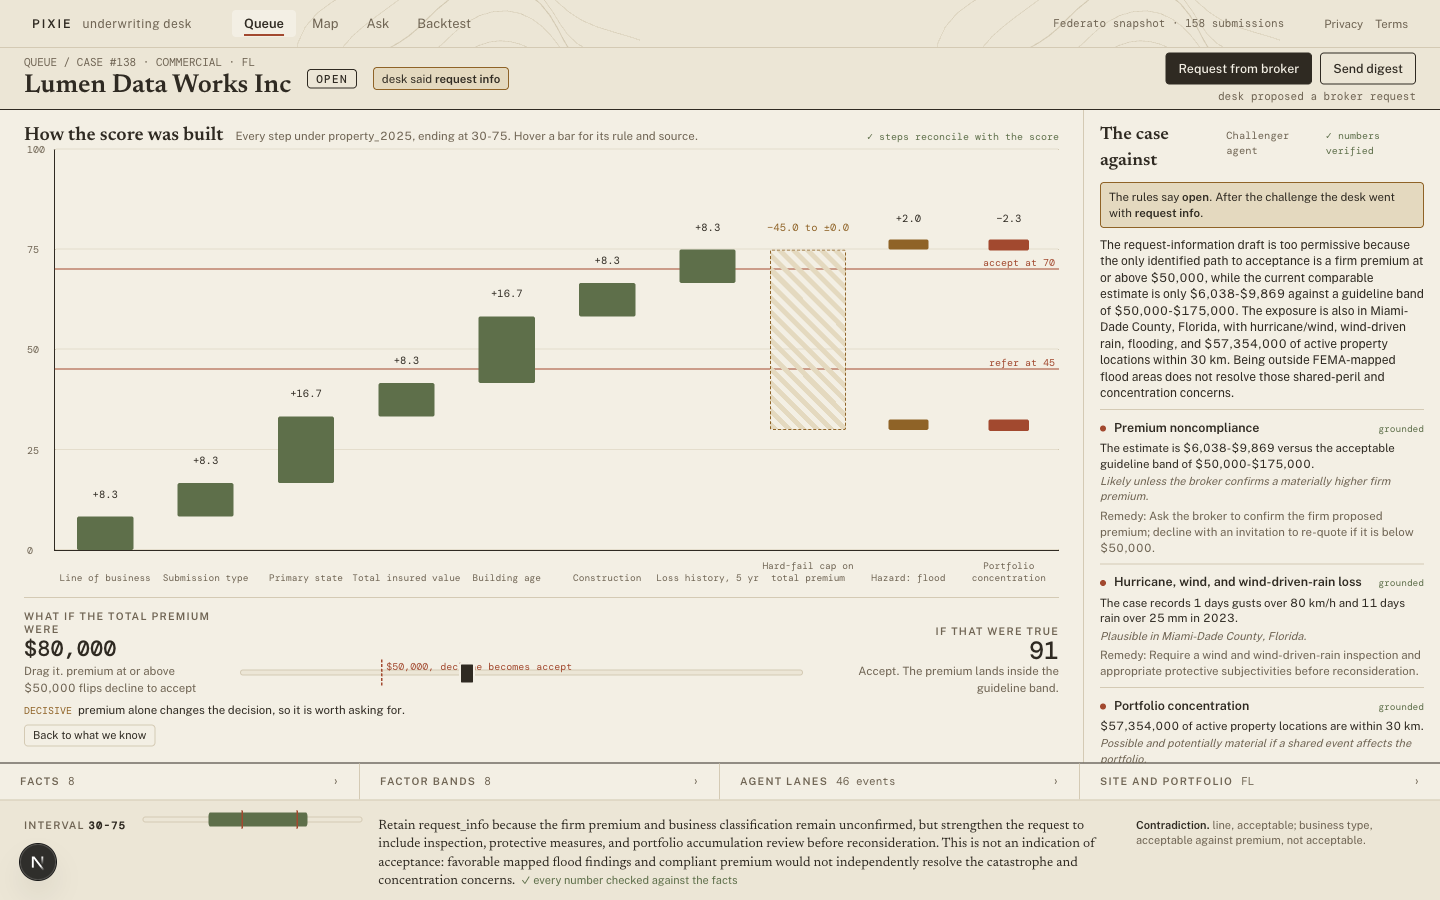
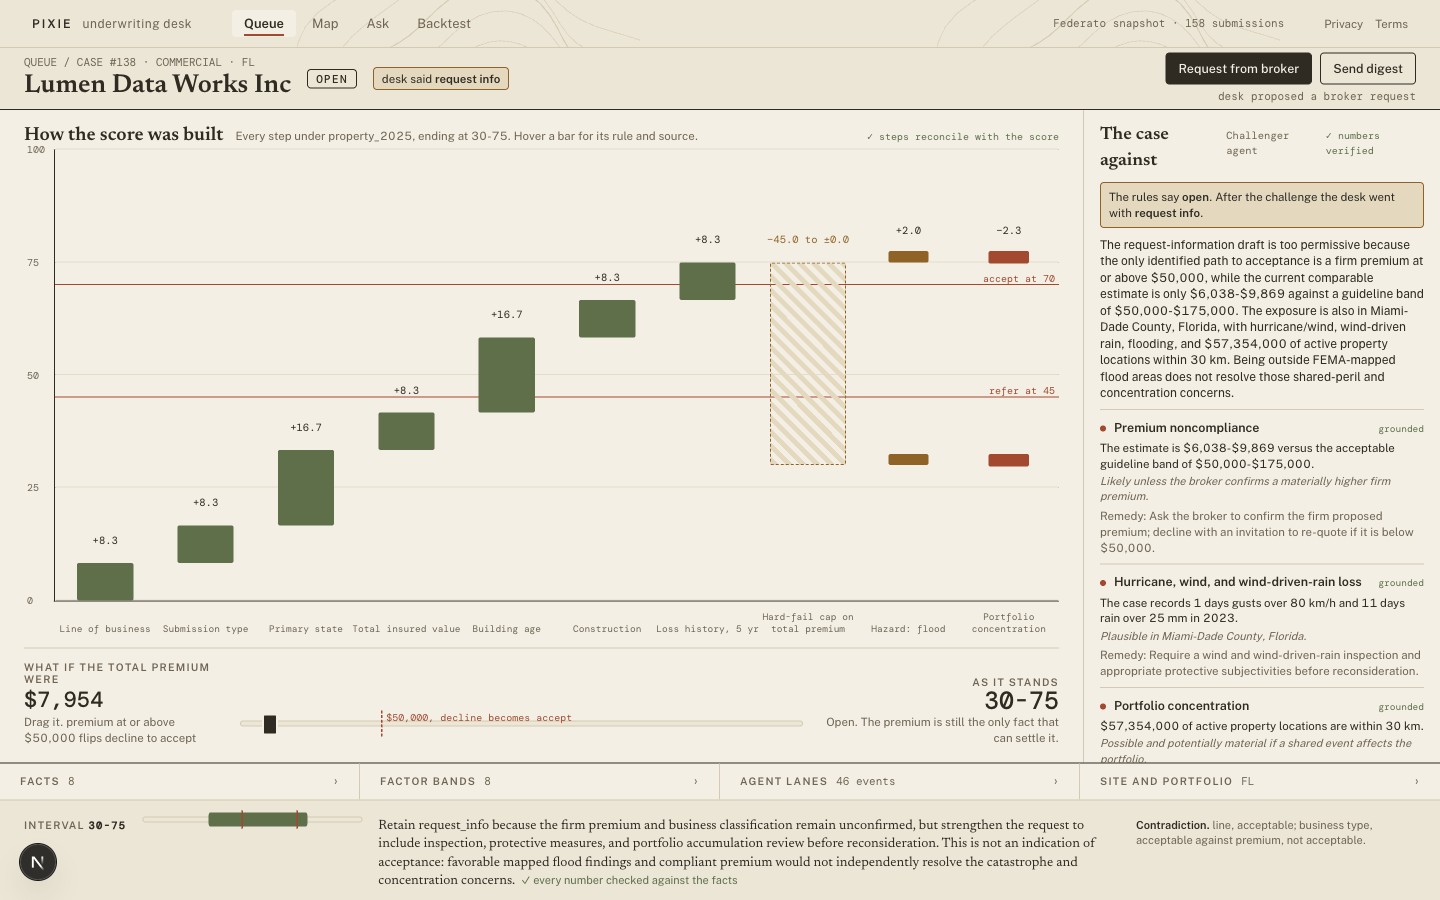
Refresh step 4: the queue and the map inherit the decluttered styling
The queue drops to four sortable columns plus a decision and a why: seven
columns of numbers became one line of reasons, each row naming what it is
waiting on or what failed, how many risks the Challenger raised, and where the
desk overruled the rules ('decline, desk: refer with subjectivity'). Consumer
referrals sit under their own heading rather than mixed in, unscored rows read
'not scored', and the desk verdict is hidden when it says the same thing as
the rules. The map keeps one card, one legend and a site list that reads like
the live rail.

diff --git a/web/src/components/QueueTable.tsx b/web/src/components/QueueTable.tsx
@@ -1,27 +1,28 @@
 "use client";
 import Link from "next/link";
 import { useMemo, useState } from "react";
-import type { QueueRow } from "@/contract";
 import { DecisionChip, IntervalBar, IssueTag, money } from "./bits";
+import type { Row } from "@/lib/live";
 
-type Key = "rank" | "insured" | "line" | "state" | "score" | "delta" | "value";
+type Key = "rank" | "insured" | "score" | "value";
 const GROUP: Record<string, number> = { open: 0, refer: 1, accept: 1, approve: 1, decline: 2, routed: 3 };
-const group = (r: QueueRow) => GROUP[r.decision.kind] ?? 3;
-const scored = (r: QueueRow) => !!r.score && r.decision.kind !== "routed" && (r.score.lo !== 0 || r.score.hi !== 0);
-const mid = (r: QueueRow) => (scored(r) ? (r.score!.lo + r.score!.hi) / 2 : -1);
+const group = (r: Row) => GROUP[r.decision.kind] ?? 3;
+const scored = (r: Row) => !!r.score && r.decision.kind !== "routed" && (r.score.lo !== 0 || r.score.hi !== 0);
+const mid = (r: Row) => (scored(r) ? (r.score!.lo + r.score!.hi) / 2 : -1);
 
-const COLS: { key: Key; label: string; align?: "right" }[] = [
-  { key: "rank", label: "#" },
+type Extras = { deskVerdict?: string; challengeRisks?: number };
+type Ranked = Row & Extras & { rank: number };
+
+const COLS: { key: Key; label: string; align?: "right"; w?: string }[] = [
+  { key: "rank", label: "#", w: "w-[38px]" },
   { key: "insured", label: "Insured" },
-  { key: "line", label: "Line" },
-  { key: "state", label: "State" },
-  { key: "score", label: "Score interval" },
-  { key: "delta", label: "Enrich Δ", align: "right" },
-  { key: "value", label: "At stake", align: "right" },
+  { key: "score", label: "Score interval", w: "w-[250px]" },
+  { key: "value", label: "At stake", align: "right", w: "w-[92px]" },
 ];
 
-export function QueueTable({ rows }: { rows: QueueRow[] }) {
-  const ranked = useMemo(
+/** One row per submission: who, where it landed, and why. Everything else lives on the case page. */
+export function QueueTable({ rows }: { rows: (Row & Extras)[] }) {
+  const ranked = useMemo<Ranked[]>(
     () =>
       [...rows]
         .sort((a, b) => group(a) - group(b) || mid(b) - mid(a) || b.valueAtStake - a.valueAtStake)
@@ -30,25 +31,24 @@ export function QueueTable({ rows }: { rows: QueueRow[] }) {
   );
   const [sort, setSort] = useState<{ key: Key; dir: 1 | -1 }>({ key: "rank", dir: 1 });
   const sorted = useMemo(() => {
-    const val = (r: (typeof ranked)[number]): string | number =>
-      ({ rank: r.rank, insured: r.insured, line: r.line, state: r.state, score: mid(r), delta: r.enrichmentDelta ?? 0, value: r.valueAtStake })[
-        sort.key
-      ];
+    const val = (r: Ranked): string | number => ({ rank: r.rank, insured: r.insured, score: mid(r), value: r.valueAtStake })[sort.key];
     return [...ranked].sort((a, b) => {
-      const x = val(a), y = val(b);
+      const x = val(a),
+        y = val(b);
       return (typeof x === "string" ? x.localeCompare(y as string) : x - (y as number)) * sort.dir;
     });
   }, [ranked, sort]);
 
-  const toggle = (key: Key) =>
-    setSort((s) => ({ key, dir: s.key === key ? (s.dir === 1 ? -1 : 1) : key === "rank" || key === "insured" || key === "line" || key === "state" ? 1 : -1 }));
+  const toggle = (key: Key) => setSort((s) => ({ key, dir: s.key === key ? (s.dir === 1 ? -1 : 1) : key === "rank" || key === "insured" ? 1 : -1 }));
 
-  if (!rows.length)
-    return <p className="mt-10 text-dim">No submissions match. Switch to All to see decided and bound cases.</p>;
+  if (!rows.length) return <p className="mt-10 text-dim">No submissions match. Switch to All to see decided and bound cases.</p>;
+
+  const desk = sorted.filter((r) => r.region !== "toronto");
+  const consumer = sorted.filter((r) => r.region === "toronto");
 
   return (
-    <table className="mt-6 w-full border-collapse text-[12.5px]">
-      <caption className="sr-only">Submission queue. Column headers are buttons that sort the table.</caption>
+    <table className="mt-5 w-full border-collapse text-[12.5px]">
+      <caption className="sr-only">Submission queue, ranked by score interval. Column headers sort the table.</caption>
       <thead>
         <tr className="border-b border-ink">
           {COLS.map((c) => (
@@ -56,7 +56,7 @@ export function QueueTable({ rows }: { rows: QueueRow[] }) {
               key={c.key}
               scope="col"
               aria-sort={sort.key === c.key ? (sort.dir === 1 ? "ascending" : "descending") : "none"}
-              className={`py-1.5 pr-4 font-normal ${c.align === "right" ? "text-right" : "text-left"} ${c.key === "score" ? "w-[260px]" : ""}`}
+              className={`py-1.5 pr-4 font-normal ${c.align === "right" ? "text-right" : "text-left"} ${c.w ?? ""}`}
             >
               <button onClick={() => toggle(c.key)} className="kicker rounded-sm hover:text-ink">
                 {c.label}
@@ -66,73 +66,101 @@ export function QueueTable({ rows }: { rows: QueueRow[] }) {
               </button>
             </th>
           ))}
-          <th scope="col" className="kicker py-1.5 pr-4 text-left font-normal">Decision</th>
-          <th scope="col" className="kicker py-1.5 text-left font-normal">Issues</th>
+          <th scope="col" className="kicker py-1.5 pr-4 text-left font-normal">
+            Decision
+          </th>
+          <th scope="col" className="kicker py-1.5 text-left font-normal">
+            Why
+          </th>
         </tr>
       </thead>
       <tbody>
-        {sorted.map((r) => (
-          <tr key={r.caseId} className="group border-b border-rule transition-colors duration-150 hover:bg-land">
-            <td className="num py-2 pr-4 text-dim">{String(r.rank).padStart(2, "0")}</td>
-            <td className="py-2 pr-4">
-              <Link href={`/cases/${r.caseId}`} className="font-medium underline-offset-2 hover:underline">
-                {r.insured}
-              </Link>
-              <span className="num ml-2 text-[11px] text-dim">#{r.caseId}</span>
-              {r.deepDived && (
-                <span title="The desk ran a deep dive on this case" className="ml-2 font-mono text-[10px] text-ochre">
-                  deep dive
-                </span>
-              )}
-            </td>
-            <td className="py-2 pr-4">{r.line.length <= 3 ? r.line.toUpperCase() : r.line[0].toUpperCase() + r.line.slice(1)}</td>
-            <td className="num py-2 pr-4">{r.state}</td>
-            <td className="py-2 pr-4">
-              {!scored(r) ? (
-                <span className="text-[11.5px] text-dim" title={r.decision.kind === "routed" ? r.decision.because : undefined}>
-                  <span aria-hidden className="num mr-2">—</span>
-                  {r.decision.kind === "routed" ? `routed to ${r.decision.to}` : "not scored"}
-                </span>
-              ) : (
-                <div className="flex items-center gap-3">
-                  <div className="flex-1"><IntervalBar score={r.score} compact /></div>
-                  <span className="num w-[42px] text-[11.5px]">{r.score!.lo}–{r.score!.hi}</span>
-                </div>
-              )}
-            </td>
-            <td className={`num py-2 pr-4 text-right ${r.enrichmentDelta ? "" : "text-dim"}`}>
-              {r.enrichmentDelta == null ? "—" : `${r.enrichmentDelta > 0 ? "+" : r.enrichmentDelta < 0 ? "−" : "±"}${Math.abs(r.enrichmentDelta)}`}
-            </td>
-            <td className="num py-2 pr-4 text-right">{money(r.valueAtStake)}</td>
-            <td className="py-2 pr-4">
-              <DecisionChip decision={r.decision} />
-              {r.decision.kind === "open" &&
-                r.decision.flippers.map((f) => (
-                  <span
-                    key={f.fact}
-                    title={`${f.fact} could flip the decision; ask the ${f.resolver}`}
-                    className="ml-1.5 font-mono text-[10.5px]"
-                  >
-                    <span aria-hidden>⇅</span> {f.fact} <span className="text-dim">← {f.resolver}</span>
-                  </span>
-                ))}
-            </td>
-            <td className="py-2">
-              <span className="flex flex-wrap gap-1">
-                {/* The engine can report the same issue once per building; show it once with a count. */}
-                {Object.values(
-                  r.issues.reduce<Record<string, { kind: string; severity: string; n: number }>>((m, i) => {
-                    m[i.kind] = { ...i, n: (m[i.kind]?.n ?? 0) + 1 };
-                    return m;
-                  }, {}),
-                ).map((i) => (
-                  <IssueTag key={i.kind} kind={i.kind} severity={i.severity} count={i.n} />
-                ))}
-              </span>
+        {desk.map((r) => (
+          <QueueRowView key={r.caseId} r={r} />
+        ))}
+        {consumer.length > 0 && (
+          <tr>
+            <td colSpan={6} className="pb-1 pt-5">
+              <span className="kicker">Consumer referrals</span>
+              <span className="ml-2 text-[11.5px] text-dim">Toronto renters the same engine priced and sent here.</span>
             </td>
           </tr>
+        )}
+        {consumer.map((r) => (
+          <QueueRowView key={r.caseId} r={r} />
         ))}
       </tbody>
     </table>
+  );
+}
+
+function QueueRowView({ r }: { r: Ranked }) {
+  const has = scored(r);
+  // "route" and "routed" are the same call; only show the desk's verdict when it really differs.
+  const same = (a: string, b: string) => a.replace(/d$/, "") === b.replace(/d$/, "");
+  const moved = !!r.deskVerdict && !same(r.deskVerdict, r.decision.kind);
+  const reasons = "because" in r.decision ? (Array.isArray(r.decision.because) ? r.decision.because : [r.decision.because]) : [];
+  const why = reasons.length
+    ? reasons.slice(0, 2).map((b) => b.replace(/:/g, " ").replaceAll("_", " ")).join("; ")
+    : r.decision.kind === "open"
+      ? `waiting on ${r.decision.flippers.map((f) => f.fact).join(", ") || "the broker"}`
+      : "";
+
+  return (
+    <tr className="group border-b border-rule transition-colors duration-150 hover:bg-land">
+      <td className="num py-2 pr-4 text-dim">{String(r.rank).padStart(2, "0")}</td>
+      <td className="py-2 pr-4">
+        <Link href={`/cases/${r.caseId}`} className="font-medium underline-offset-2 hover:underline">
+          {r.insured}
+        </Link>
+        <span className="num ml-2 whitespace-nowrap text-[11px] text-dim">
+          #{r.caseId} · {r.line} · {r.state}
+        </span>
+        {r.deepDived && (
+          <span title="The desk ran a deep dive on this case" className="ml-2 font-mono text-[10px] text-ochre">
+            deep dive
+          </span>
+        )}
+      </td>
+      <td className="py-2 pr-4">
+        {has ? (
+          <div className="flex items-center gap-3">
+            <div className="flex-1">
+              <IntervalBar score={r.score} compact />
+            </div>
+            <span className="num w-[42px] text-[11.5px]">
+              {r.score!.lo}-{r.score!.hi}
+            </span>
+          </div>
+        ) : (
+          <span className="num text-[11.5px] text-dim">not scored</span>
+        )}
+      </td>
+      <td className="num py-2 pr-4 text-right">{money(r.valueAtStake)}</td>
+      <td className="py-2 pr-4">
+        <DecisionChip decision={r.decision} />
+        {moved && <span className="ml-1.5 font-mono text-[10px] text-ochre">desk: {r.deskVerdict!.replaceAll("_", " ")}</span>}
+      </td>
+      <td className="min-w-0 py-2">
+        <span className="flex items-center gap-2">
+          <span className="min-w-0 flex-1 truncate text-[11.5px] text-dim" title={why}>
+            {why}
+          </span>
+          {!!r.challengeRisks && (
+            <span title={`${r.challengeRisks} risks raised by the Challenger`} className="shrink-0 rounded-sm border border-rust px-1 font-mono text-[9.5px] text-rust">
+              {r.challengeRisks} risks
+            </span>
+          )}
+          {Object.values(
+            r.issues.reduce<Record<string, { kind: string; severity: string; n: number }>>((m, i) => {
+              m[i.kind] = { ...i, n: (m[i.kind]?.n ?? 0) + 1 };
+              return m;
+            }, {}),
+          ).map((i) => (
+            <IssueTag key={i.kind} kind={i.kind} severity={i.severity} count={i.n} />
+          ))}
+        </span>
+      </td>
+    </tr>
   );
 }

diff --git a/web/src/app/map/page.tsx b/web/src/app/map/page.tsx
@@ -24,8 +24,8 @@ export default async function MapPage({ searchParams }: PageProps<"/map">) {
       <div className="relative overflow-hidden border-r border-rule">
         <LiveMap hexes={hexes} pins={pins} center={[-99, 37]} zoom={3.5} />
         <div aria-hidden className="contours pointer-events-none absolute inset-0 opacity-40 mix-blend-multiply" />
-        <div className="absolute left-5 top-4 rounded-sm border border-rule bg-paper/95 px-3.5 py-2.5">
-          <p className="kicker">Book of business · H3 res 3</p>
+        <div className="absolute left-5 top-4 rounded-sm border border-ink bg-paper/95 px-3.5 py-2.5">
+          <p className="kicker">Book of business</p>
           <p className="mt-0.5 font-serif text-[22px] font-semibold leading-tight">
             <span className="num">{money(total)}</span> active TIV in <span className="num">{hexes.length}</span> cells
           </p>
@@ -42,7 +42,7 @@ export default async function MapPage({ searchParams }: PageProps<"/map">) {
             ))}
           </nav>
         </div>
-        <div className="absolute bottom-6 left-5 flex items-center gap-4 rounded-sm border border-rule bg-paper/95 px-3 py-1.5 text-[11.5px]">
+        <div className="absolute bottom-6 left-5 flex items-center gap-4 rounded-sm border border-rule bg-paper/95 px-3 py-1.5 text-[11px]">
           <span className="flex items-center gap-1.5">
             <span className="inline-block h-3 w-5 bg-[#B7813A]/25" />
             <span className="inline-block h-3 w-5 bg-[#B7813A]/80" /> low to high TIV
@@ -58,14 +58,14 @@ export default async function MapPage({ searchParams }: PageProps<"/map">) {
         </div>
       </div>
       <aside className="overflow-y-auto px-6 py-5" aria-labelledby="cases-h">
-        <h1 id="cases-h" className="kicker mb-2">Submission sites · {pins.length}</h1>
-        <p className="mb-3 text-[12px] text-dim">Every pin on the map, as a list. Choose one to open its case.</p>
+        <h1 id="cases-h" className="kicker mb-1">Submission sites · {pins.length}</h1>
+        <p className="mb-3 text-[11.5px] text-dim">Every pin, as a list. Open one to see how its score was built.</p>
         <ul>
           {pins.map((p) => (
             <li key={p.caseId} className="border-t border-rule">
               <Link href={`/cases/${p.caseId}`} className="flex items-baseline gap-2 py-1.5 transition-colors duration-150 hover:bg-land">
-                <span className="num w-9 text-[11px] text-dim">#{p.caseId}</span>
-                <span className="flex-1 truncate text-[12.5px]">{p.insured}</span>
+                <span className="num w-9 shrink-0 text-[11px] text-dim">#{p.caseId}</span>
+                <span className="min-w-0 flex-1 truncate text-[12.5px]">{p.insured}</span>
                 <DecisionChip decision={{ kind: p.decision } as DecisionView} />
               </Link>
             </li>

diff --git a/web/src/app/queue/page.tsx b/web/src/app/queue/page.tsx
@@ -1,11 +1,13 @@
 import Link from "next/link";
 import { api } from "@/lib/api";
+import type { Row } from "@/lib/live";
 import { QueueTable } from "@/components/QueueTable";
 
 export default async function QueuePage({ searchParams }: PageProps<"/queue">) {
   const view = (await searchParams).view === "all" ? "all" : "open";
-  const rows = await api.queue(view);
+  const rows = (await api.queue(view)) as unknown as (Row & { deskVerdict?: string; challengeRisks?: number })[];
   const open = rows.filter((r) => r.decision.kind === "open").length;
+  const deskCount = rows.filter((r) => r.region !== "toronto").length;
   return (
     <main className="px-10 pb-12 pt-7">
       <div className="flex items-end justify-between gap-8">
@@ -14,9 +16,10 @@ export default async function QueuePage({ searchParams }: PageProps<"/queue">) {
           <h1 className="mt-0.5 font-serif text-[32px] font-semibold leading-tight">
             {rows.length} submissions, {open} still open
           </h1>
-          <p className="mt-1 max-w-[70ch] text-dim">
-            Ranked by the midpoint of each score interval. An open case straddles a threshold; the flippers name the
-            facts that could move it and who can supply them.
+          <p className="mt-1 max-w-[74ch] text-dim">
+            Ranked by the midpoint of each score interval, open cases first. {deskCount} of them the property guideline
+            scores; the rest are routed to their own line or referred by a renter. Where the Challenger moved the call,
+            the row shows both.
           </p>
         </div>
         <div role="group" aria-label="Which submissions" className="flex rounded-sm border border-ink text-[12px]">
